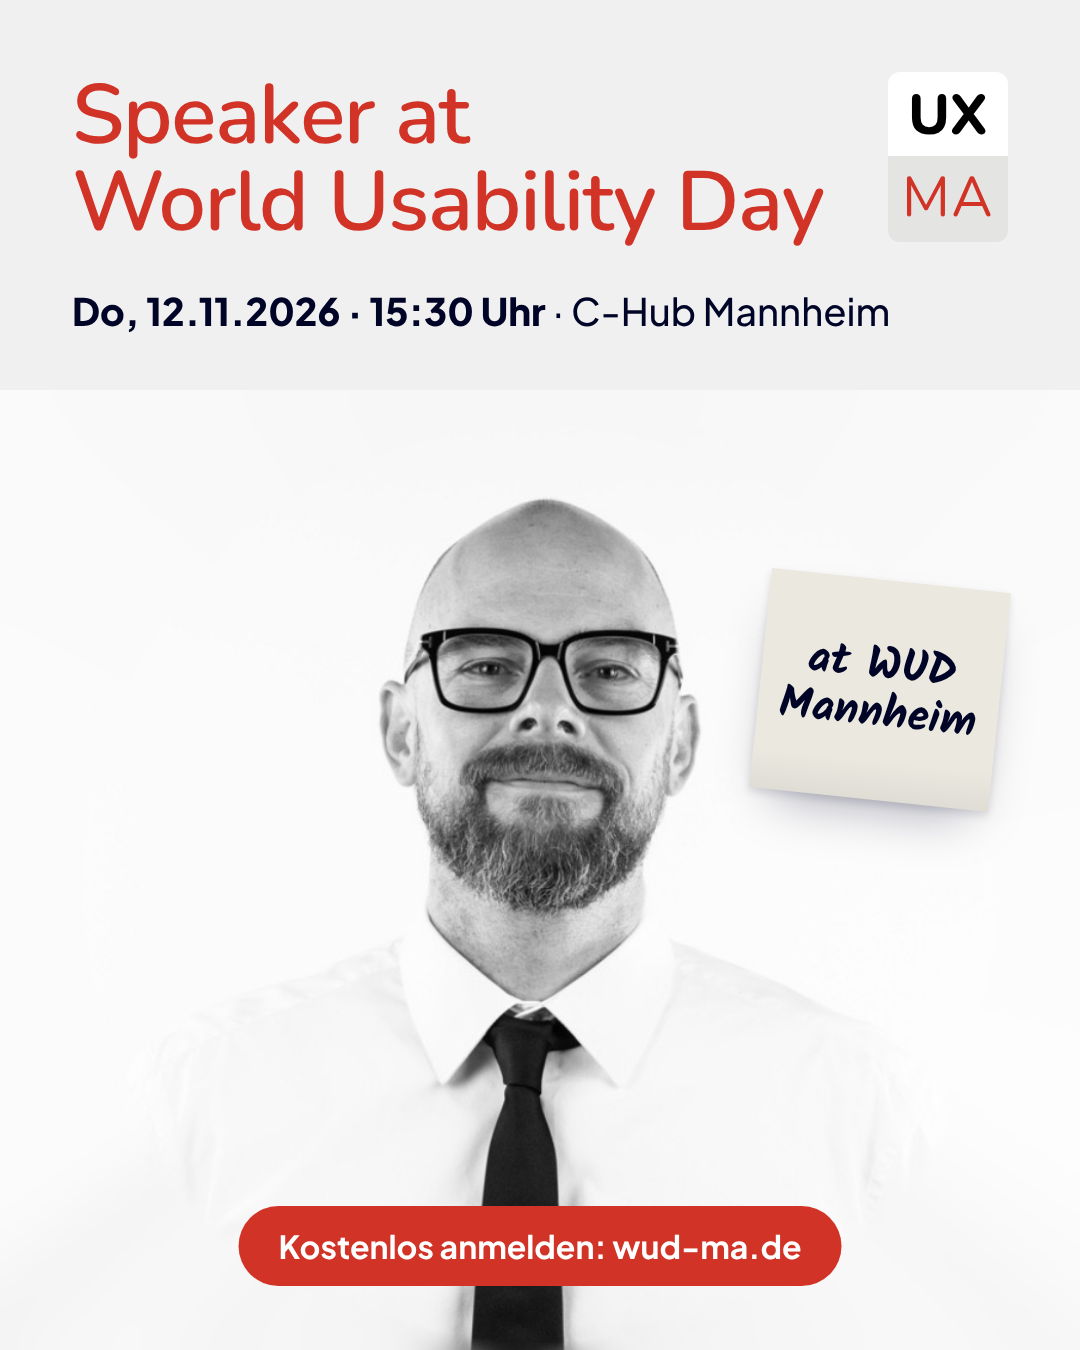
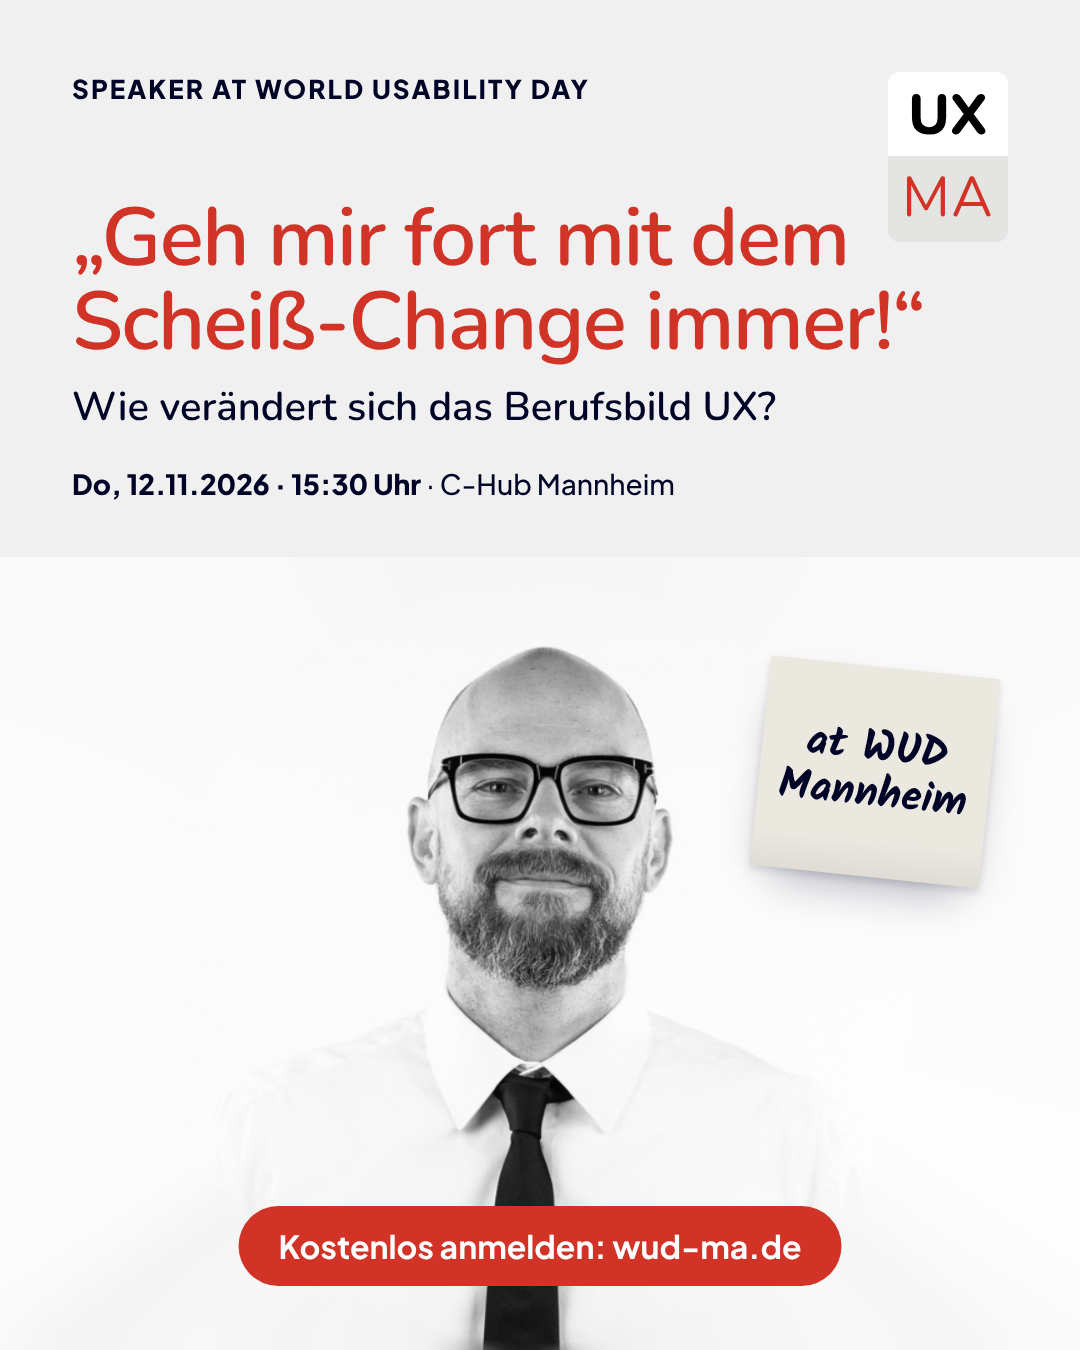
Keynote-Titel eingebaut: klassische Version und Chat-Version mit echtem Screenshot
Titel: „Geh mir fort mit dem Scheiß-Change immer!“ – Wie verändert sich das Berufsbild UX?
- Klassisch: Titel als größtes Element
- Chat: WhatsApp-Screenshot als hochgehaltene Karte vor dem Foto
- jeweils für euch / zum Teilen, Farbe / Schwarz-Weiß; Texte aktualisiert

Claude-Session: https://claude.ai/code/session_01FdBpF3p1XTs9Kowkd1XXbf

diff --git a/assets/src/keynote-speaker.html b/assets/src/keynote-speaker.html
@@ -2,13 +2,16 @@
 <html lang="de">
 <head>
 <meta charset="utf-8">
-<title>Speaker – Post (1080×1350)</title>
+<title>Keynote – Post (1080×1350)</title>
 <link rel="stylesheet" href="brand.css">
 <style>
   /* Zwei Panels: oben Text, unten Foto über die ganze Breite.
-     Varianten per URL-Hash: #sw = Foto schwarz-weiß · #teilen = Version für den Speaker selbst · kombinierbar (#sw-teilen) */
-  body { width: 1080px; height: 1350px; background: var(--white); position: relative; display: flex; flex-direction: column; }
-
+     Varianten per URL-Hash (kombinierbar, z. B. #chat-teilen-sw):
+       (ohne)  = klassisch, Titel als größtes Element
+       #chat   = Titel als echter WhatsApp-Screenshot vor dem Foto
+       #teilen = Version für den Speaker selbst
+       #sw     = Foto schwarz-weiß */
+  body { width: 1080px; height: 1350px; background: var(--white); position: relative; display: flex; flex-direction: column; overflow: hidden; }
   .top { position: relative; padding: 72px 72px 56px; background: var(--grey); }
 
   /* UX-MA-Logo, nachgebaut */
@@ -16,67 +19,94 @@
   .uxma .ux { background: var(--white); border-radius: 12px 12px 0 0; font-weight: 800; font-size: 56px; color: #000; padding: 16px 0 12px; }
   .uxma .ma { background: #E4E4E2; border-radius: 0 0 12px 12px; font-weight: 400; font-size: 56px; color: var(--red); padding: 14px 0 16px; letter-spacing: .03em; }
 
-  .headline { font-size: 50px; color: var(--red); max-width: 790px; line-height: 1.1; }
-  .name { margin-top: 72px; font-size: 96px; color: var(--navy); }
-  .role { margin-top: 12px; font-size: 36px; font-weight: 500; }
-  .talk { margin-top: 24px; font-family: var(--font-head); font-weight: 600; font-size: 40px; line-height: 1.15; color: var(--red); max-width: 936px; }
-  .talk:empty { display: none; }
-  .meta { margin-top: 22px; font-size: 30px; font-weight: 500; }
+  .kicker { font-weight: 800; font-size: 26px; letter-spacing: .08em; text-transform: uppercase; max-width: 780px; }
+  .meta { font-size: 30px; font-weight: 500; }
   .meta b { font-weight: 800; }
-
-  .photo { flex: 1; background: url(img/speaker-uwe-thimel_breit.png) center bottom / auto 100% no-repeat; }
-  body.sw .photo { background-image: url(img/speaker-uwe-thimel_breit_sw.png); }
-
   .cta { margin-top: 36px; font-size: 30px; padding: 18px 36px; }
 
-  /* Version zum Teilen: kein großer Name, stattdessen „Speaker at …“ + Post-it auf dem Foto */
-  .share { display: none; }
-  body.teilen .orga { display: none; }
-  body.teilen .share { display: block; }
-  body.teilen .pill.share { display: inline-flex; }
-  .share-head { font-size: 84px; color: var(--red); line-height: 1.04; max-width: 800px; }
-  .share-date { margin-top: 40px; font-size: 38px; font-weight: 500; }
-  .share-date b { font-weight: 800; }
+  .photo { flex: 1; position: relative; background: url(img/speaker-uwe-thimel_breit.png) center bottom / auto 100% no-repeat; }
+  body.sw .photo { background-image: url(img/speaker-uwe-thimel_breit_sw.png); }
+
+  /* Sichtbarkeit je Variante */
+  .v { display: none; }
+  body:not(.chat):not(.teilen) .v-classic-orga,
+  body:not(.chat).teilen .v-classic-share,
+  body.chat:not(.teilen) .v-chat-orga,
+  body.chat.teilen .v-chat-share { display: block; }
+  body:not(.chat):not(.teilen) .pill.v-classic-orga,
+  body:not(.chat).teilen .pill.v-classic-share,
+  body.chat:not(.teilen) .pill.v-chat-orga,
+  body.chat.teilen .pill.v-chat-share { display: inline-flex; }
+  body:not(.chat).teilen .sticky.v-classic-share { display: flex; }
+
+  /* ---------- Klassisch: Titel groß ---------- */
+  .title { margin-top: 92px; font-size: 82px; color: var(--red); line-height: 1.02; letter-spacing: -.02em; }
+  .subtitle { margin-top: 20px; font-family: var(--font-head); font-weight: 600; font-size: 40px; line-height: 1.15; }
+  .speaker { margin-top: 40px; font-size: 32px; }
+  .speaker b { font-weight: 800; }
+  .classic-meta { margin-top: 8px; font-size: 28px; }
   .share-cta { position: absolute; left: 50%; bottom: 64px; transform: translateX(-50%); white-space: nowrap; font-size: 32px; padding: 20px 40px; }
-  .photo { position: relative; }
-  body.teilen .sticky.share { display: flex; }
-  .note-at { left: 760px; top: 190px; width: 240px; height: 220px; font-size: 44px; transform: rotate(6deg); line-height: 1.1; }
+  .note-at { left: 760px; top: 110px; width: 230px; height: 210px; font-size: 42px; transform: rotate(6deg); line-height: 1.1; }
+
+  /* ---------- Chat: echter Screenshot ---------- */
+  .name { margin-top: 26px; font-size: 76px; color: var(--navy); }
+  .role { margin-top: 6px; font-size: 32px; font-weight: 500; }
+  .chat-meta { margin-top: 14px; }
+  .share-head { font-size: 68px; color: var(--red); line-height: 1.04; max-width: 800px; }
+  .share-meta { margin-top: 26px; }
+  .shot { position: absolute; left: 50%; bottom: -26px; width: 790px; margin-left: -395px; transform: rotate(-3deg);
+          border-radius: 30px; overflow: hidden; box-shadow: 0 30px 60px -24px rgba(0,4,39,.45); }
+  .shot img { width: 100%; display: block; }
 </style>
 </head>
 <body>
-  <!-- ▼ Vortragstitel hier eintragen, sobald er feststeht (leer lassen = keine Titelzeile) -->
-  <script>const TALK_TITLE = "";</script>
-
   <div class="top">
     <div class="uxma"><div class="ux">UX</div><div class="ma">MA</div></div>
-    <!-- Version für euch -->
-    <div class="orga">
-      <div class="head headline">Speaker<br>World Usability Day Mannheim</div>
+
+    <!-- Klassisch – für euch -->
+    <div class="v v-classic-orga">
+      <div class="kicker">Keynote · World Usability Day Mannheim</div>
+      <div class="head title">„Geh mir fort mit dem Scheiß-Change immer!“</div>
+      <div class="subtitle">Wie verändert sich das Berufsbild UX?</div>
+      <div class="speaker"><b>Uwe Thimel</b> · Chief Creative Officer, inovex</div>
+      <div class="meta classic-meta"><b>Do, 12.11. · 15:30 Uhr</b> · C-Hub Mannheim</div>
+    </div>
+    <div class="pill cta v v-classic-orga">Jetzt anmelden: wud-ma.de</div>
+
+    <!-- Klassisch – zum Teilen -->
+    <div class="v v-classic-share">
+      <div class="kicker">Speaker at World Usability Day</div>
+      <div class="head title">„Geh mir fort mit dem Scheiß-Change immer!“</div>
+      <div class="subtitle">Wie verändert sich das Berufsbild UX?</div>
+      <div class="meta classic-meta" style="margin-top:36px"><b>Do, 12.11.2026 · 15:30 Uhr</b> · C-Hub Mannheim</div>
+    </div>
+
+    <!-- Chat – für euch -->
+    <div class="v v-chat-orga">
+      <div class="kicker">Keynote · World Usability Day Mannheim</div>
       <div class="head name">Uwe Thimel</div>
       <div class="role">Chief Creative Officer, inovex</div>
-      <div class="talk" id="talk"></div>
-      <div class="meta"><b>Keynote · Do, 12.11. · 15:30 Uhr</b> · C-Hub Mannheim</div>
+      <div class="meta chat-meta"><b>Do, 12.11. · 15:30 Uhr</b> · C-Hub Mannheim</div>
     </div>
-    <div class="pill cta orga">Jetzt anmelden: wud-ma.de</div>
+    <div class="pill cta v v-chat-orga">Jetzt anmelden: wud-ma.de</div>
 
-    <!-- Version zum Teilen für den Speaker -->
-    <div class="share">
+    <!-- Chat – zum Teilen -->
+    <div class="v v-chat-share">
       <div class="head share-head">Speaker at<br>World Usability Day</div>
-      <div class="share-date"><b>Do, 12.11.2026 · 15:30 Uhr</b> · C-Hub Mannheim</div>
+      <div class="meta share-meta"><b>Do, 12.11.2026 · 15:30 Uhr</b> · C-Hub Mannheim</div>
     </div>
+    <div class="pill cta v v-chat-share">Kostenlos anmelden: wud-ma.de</div>
   </div>
 
   <div class="photo">
-    <div class="sticky note-at share">at WUD<br>Mannheim</div>
-    <div class="pill share-cta share">Kostenlos anmelden: wud-ma.de</div>
+    <div class="sticky note-at v v-classic-share">at WUD<br>Mannheim</div>
+    <div class="pill share-cta v v-classic-share">Kostenlos anmelden: wud-ma.de</div>
+    <div class="shot v v-chat-orga v-chat-share"><img src="img/keynote-titel-screenshot.jpg" alt="„Geh mir fort mit dem Scheiß-Change immer!“ – Wie verändert sich das Berufsbild UX?"></div>
   </div>
 
   <script>
-    const talk = document.getElementById('talk');
-    if (TALK_TITLE) { talk.textContent = "„" + TALK_TITLE + "“"; document.body.classList.add('has-talk'); }
     const h = location.hash;
-    if (h.includes('sw')) document.body.classList.add('sw');
-    if (h.includes('teilen')) document.body.classList.add('teilen');
+    ['chat','teilen','sw'].forEach(k => { if (h.includes(k)) document.body.classList.add(k); });
   </script>
 </body>
 </html>

diff --git a/assets/render.py b/assets/render.py
@@ -29,6 +29,10 @@ PNG_JOBS = [
     ("keynote-speaker.html#teilen", "wud-ma-2026_keynote-uwe-thimel_zum-teilen_1080x1350.png", 1080, 1350, 1),
     ("keynote-speaker.html#sw", "wud-ma-2026_keynote-uwe-thimel_linkedin_sw_1080x1350.png", 1080, 1350, 1),
     ("keynote-speaker.html#sw-teilen", "wud-ma-2026_keynote-uwe-thimel_zum-teilen_sw_1080x1350.png", 1080, 1350, 1),
+    ("keynote-speaker.html#chat", "wud-ma-2026_keynote-uwe-thimel_chat_linkedin_1080x1350.png", 1080, 1350, 1),
+    ("keynote-speaker.html#chat-teilen", "wud-ma-2026_keynote-uwe-thimel_chat_zum-teilen_1080x1350.png", 1080, 1350, 1),
+    ("keynote-speaker.html#chat-sw", "wud-ma-2026_keynote-uwe-thimel_chat_linkedin_sw_1080x1350.png", 1080, 1350, 1),
+    ("keynote-speaker.html#chat-teilen-sw", "wud-ma-2026_keynote-uwe-thimel_chat_zum-teilen_sw_1080x1350.png", 1080, 1350, 1),
 ]
 # Flyer: DIN A5 + 3 mm Beschnitt (154 × 216 mm), Vorder- und Rückseite
 PDF_JOBS = [

diff --git a/marketing-texte/keynote-uwe-thimel.md b/marketing-texte/keynote-uwe-thimel.md
@@ -1,7 +1,15 @@
 # Keynote-Ankündigung: Uwe Thimel
 
-> ⚠ **Vor dem Veröffentlichen von Uwe freigeben lassen:** Die Bio basiert auf öffentlichen Angaben (u. a. Podcast „Digital Future“ von inovex, Sept. 2025, und Profilseiten) und ist nicht von ihm bestätigt. Der **Vortragstitel** steht noch aus – überall als `{{Vortragstitel}}` markiert.
-> **Titel in die Grafiken einbauen:** in `assets/src/keynote-speaker.html` oben bei `TALK_TITLE` eintragen und `python assets/render.py keynote` ausführen – die Titelzeile erscheint dann automatisch.
+**Vortrag:** „Geh mir fort mit dem Scheiß-Change immer!“ – Wie verändert sich das Berufsbild UX?
+
+> ⚠ **Vor dem Veröffentlichen von Uwe freigeben lassen:** Die Bio basiert auf öffentlichen Angaben (u. a. Podcast „Digital Future“ von inovex, Sept. 2025, und Profilseiten) und ist nicht von ihm bestätigt.
+
+**Zwei Grafik-Stile zur Auswahl** (je für euch und zum Teilen für Uwe, jeweils auch in Schwarz-Weiß):
+
+| Klassisch – Titel groß | Chat – echter Screenshot |
+|---|---|
+| <img src="../assets/export/wud-ma-2026_keynote-uwe-thimel_linkedin_1080x1350.png" width="260"> | <img src="../assets/export/wud-ma-2026_keynote-uwe-thimel_chat_linkedin_1080x1350.png" width="260"> |
+| <img src="../assets/export/wud-ma-2026_keynote-uwe-thimel_zum-teilen_1080x1350.png" width="260"> | <img src="../assets/export/wud-ma-2026_keynote-uwe-thimel_chat_zum-teilen_1080x1350.png" width="260"> |
 
 **Timing-Vorschlag:** Do, 05.11. (zusammen mit dem 1-Woche-Reminder) – Uwe teilt am selben oder am nächsten Tag.
 
@@ -25,7 +33,8 @@ Uwe Thimel ist Chief Creative Officer bei inovex in Karlsruhe. Zuvor war er unte
 
 Wir freuen uns riesig, dass **Uwe Thimel** den World Usability Day Mannheim eröffnet. Uwe ist Chief Creative Officer bei inovex und hat die Entwicklung von UX über viele Jahre mitgeprägt – von 1&1 über CAS Software und EXXETA bis heute.
 
-Sein Thema: **{{Vortragstitel}}**
+Sein Thema: **„Geh mir fort mit dem Scheiß-Change immer!“**
+Wie verändert sich das Berufsbild UX?
 
 Um 15:30 Uhr gibt Uwe den Impuls – danach geht’s in die Open Space Sessions, in denen ihr das Programm selbst gestaltet.
 
@@ -48,7 +57,7 @@ Um 15:30 Uhr gibt Uwe den Impuls – danach geht’s in die Open Space Sessions,
 
 Am 12. November darf ich die Keynote beim World Usability Day in Mannheim halten. 🎤
 
-Mein Thema: {{Vortragstitel}}
+Mein Thema: „Geh mir fort mit dem Scheiß-Change immer!“ – Wie verändert sich das Berufsbild UX?
 
 Danach wird’s spannend: Im Open-Space-Format gestaltet die Community den restlichen Nachmittag selbst. Ich freue mich auf viele gute Gespräche – kommt vorbei!
 
@@ -77,12 +86,12 @@ Danke an @Christian Fernandez, @Christian Reschke und @Ronja Walter für die Ein
 ## Baustein für Newsletter & Reminder
 
 **🎤 Keynote: Uwe Thimel**
-Um 15:30 Uhr eröffnet Uwe Thimel, Chief Creative Officer bei inovex, den World Usability Day Mannheim mit seiner Keynote **„{{Vortragstitel}}“**. Danach geht’s direkt in die Open Space Sessions.
+Um 15:30 Uhr eröffnet Uwe Thimel, Chief Creative Officer bei inovex, den World Usability Day Mannheim mit seiner Keynote **„Geh mir fort mit dem Scheiß-Change immer!“ – Wie verändert sich das Berufsbild UX?**. Danach geht’s direkt in die Open Space Sessions.
 
 ## Baustein für die Website (Programmpunkt 15:30 Uhr)
 
 **Keynote & Opening – Uwe Thimel**
-„{{Vortragstitel}}“
+„Geh mir fort mit dem Scheiß-Change immer!“ – Wie verändert sich das Berufsbild UX?
 Uwe Thimel ist Chief Creative Officer bei inovex in Karlsruhe. Mit seiner Keynote eröffnet er den World Usability Day Mannheim und gibt den Impuls für die Open Space Sessions.
 
 ---
@@ -96,9 +105,7 @@ wir freuen uns sehr, dass du die Keynote beim World Usability Day Mannheim über
 - Grafik zum Teilen: {{Link zur Grafik}}
 - Textvorschläge: {{Link oder Text einfügen}}
 
-Zwei kurze Bitten:
-1. Schau gern einmal über die Kurz-Bio – stimmt alles so, oder möchtest du etwas ändern?
-2. Hast du schon einen Titel für deinen Vortrag? Dann bauen wir ihn noch in die Grafiken ein.
+Eine kurze Bitte: Schau gern einmal über die Kurz-Bio – stimmt alles so, oder möchtest du etwas ändern?
 
 Wir würden die Ankündigung gern am Donnerstag, 5.11., posten – wenn du am selben Tag oder kurz danach teilst, wäre das super.
 

diff --git a/README.md b/README.md
@@ -52,6 +52,7 @@ Versandplan mit Terminen: [`newsletter/README.md`](newsletter/README.md)
 | `…_keynote-uwe-thimel_linkedin_1080x1350.png` | 4 : 5 | Keynote-Ankündigung (für euch) |
 | `…_keynote-uwe-thimel_zum-teilen_1080x1350.png` | 4 : 5 | Version zum Teilen für Uwe: „Speaker at World Usability Day“, Post-it „at WUD Mannheim“ |
 | `…_keynote-uwe-thimel_…_sw_1080x1350.png` | 4 : 5 | Beide Varianten mit Foto in Schwarz-Weiß |
+| `…_keynote-uwe-thimel_chat_…_1080x1350.png` | 4 : 5 | Alternative: Vortragstitel als echter WhatsApp-Screenshot (für euch / zum Teilen, Farbe / S-W) |
 | `…_flyer_a5_mit-beschnitt.pdf` | DIN A5 + 3 mm | Druckbarer Flyer, Vorder- & Rückseite, QR-Code zur Anmeldung |
 | `…_flyer_a5_digital.pdf` | DIN A5 | Gleicher Flyer ohne Beschnittränder – als Mail-Anhang (z. B. Newsletter 1) |
 | `…_flyer_vorschau-1/2.png` | | Vorschaubilder des Flyers |
